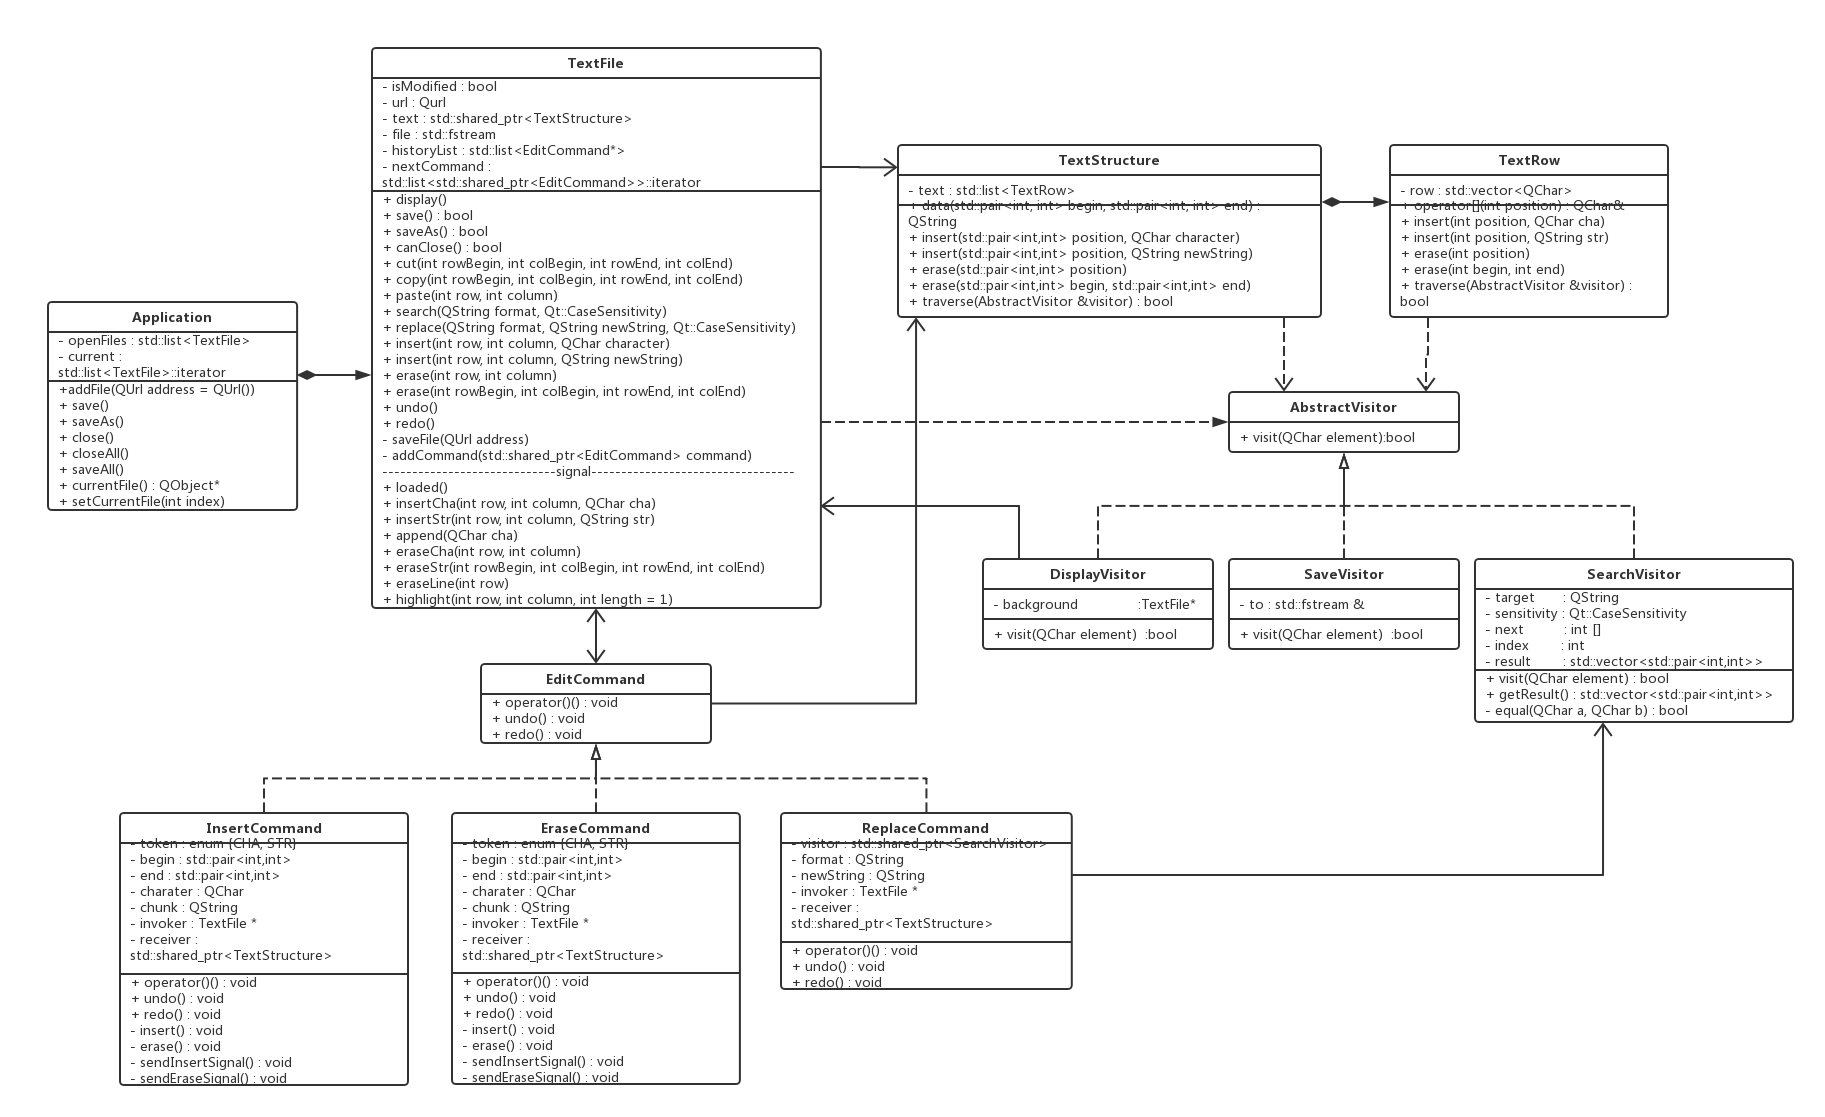
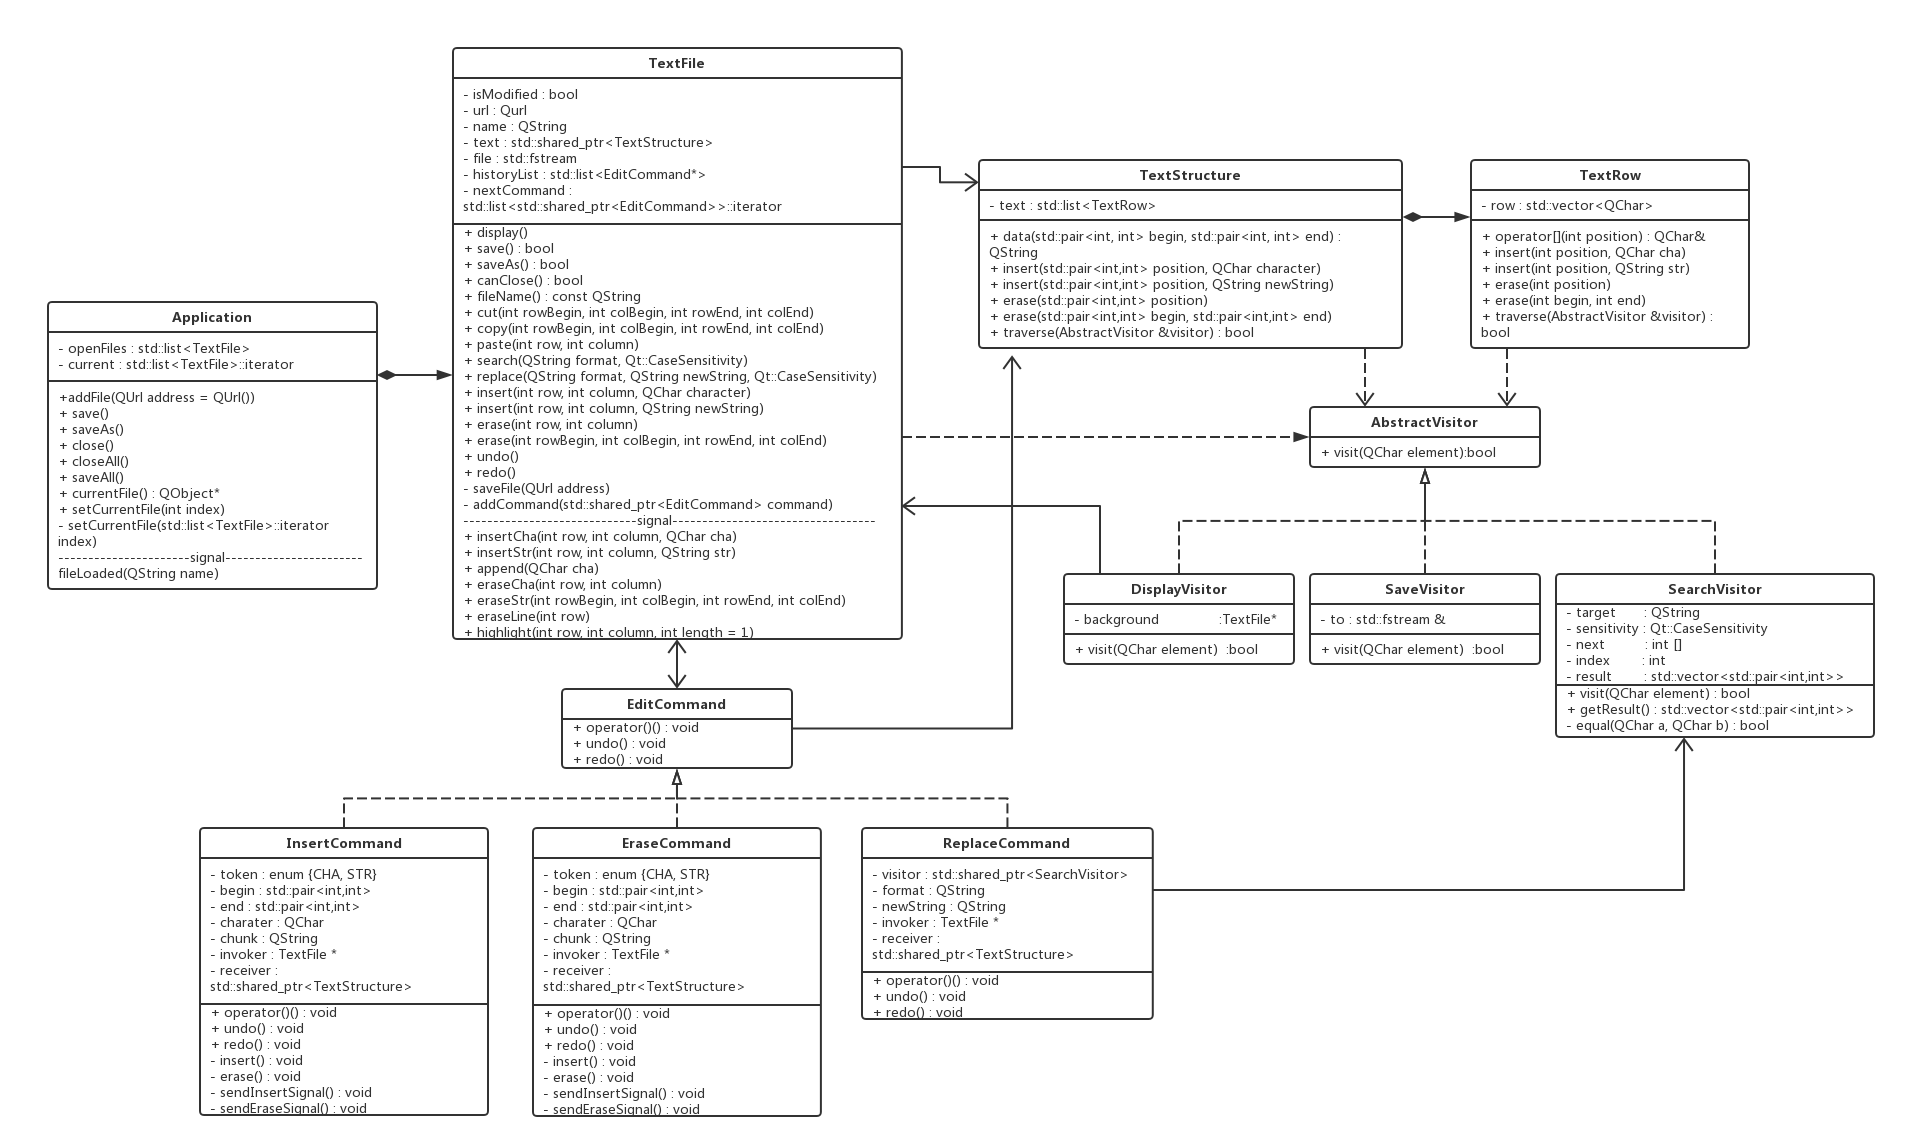
add Q_INVOKABLE getNext() and signal: highlightNext()

diff --git a/textfile.cpp b/textfile.cpp
@@ -130,24 +130,29 @@ void TextFile::addCommand(std::shared_ptr<EditCommand> command)
 
 void TextFile::search(QString format, Qt::CaseSensitivity cs)
 {
-    SearchVisitor searchVisitor(format,cs);
-    text->traverse(searchVisitor);
-    std::vector<std::pair<int,int>> result = searchVisitor.getResult();
+    searchVisitor = std::make_shared<SearchVisitor>(format,cs);
+    text->traverse(*searchVisitor);
+    const std::vector<std::pair<int,int>> result = searchVisitor->getResult();
     for(auto e: result) {
         emit highlight(e.first, e.second, format.size());
     }
+    next = result.cbegin();
+}
+
+void TextFile::showNext()
+{
+    if(next == searchVisitor->getResult().cend())
+        next = searchVisitor->getResult().cbegin();
+    emit highlightNext(next->first, next->second, searchVisitor->getFormat().size());
+    ++next;
 }
 
 void TextFile::replace(QString format, QString newString, Qt::CaseSensitivity cs)
 {
-    std::shared_ptr<SearchVisitor> searchVisitor(new SearchVisitor(format,cs));
-    text->traverse(*searchVisitor);
-    std::vector<std::pair<int,int>> result = searchVisitor->getResult();
-    for(auto e: result) {
-        highlight(e.first, e.second, format.size());
-    }
+    search(format, cs);
+    std::shared_ptr<SearchVisitor> searchInfo(new SearchVisitor(*searchVisitor));//synthesized copy constructor will work
     std::shared_ptr<ReplaceCommand> replaceCommand(
-                new ReplaceCommand(searchVisitor, newString, text, this));
+                new ReplaceCommand(searchInfo, newString, text, this));
     (*replaceCommand)();
    addCommand(replaceCommand);
 }

diff --git a/textfile.h b/textfile.h
@@ -6,10 +6,12 @@
 #include <QObject>
 #include <fstream>
 #include <memory>
-#include "Command/editcommand.h"
+#include <utility>
 #include <QDebug>
 
 class TextStructure;
+class EditCommand;
+class SearchVisitor;
 
 class TextFile: public QObject
 {
@@ -37,6 +39,7 @@ public:
 
     //emit highlight() signal in the two functions
     Q_INVOKABLE void search(QString format, Qt::CaseSensitivity = Qt::CaseSensitive);//use SearchVisitor inside
+    Q_INVOKABLE void showNext();
     //use a SearchVisitor to traverse 'text' and pass the visitor's reference to ReplaceCommand
     //the erase & insert signal are emitted inside EditCommand, while highlight() signal is emited ouside the visitor
     //because the former has a influence on undo(), the latter is just for UI
@@ -74,6 +77,7 @@ signals:
 
     void highlight(int row, int column, int length = 1);//for search result, maybe in yellow?
     //highlighting selected string (maybe in blue?) should be done just in QML, i.e. UI level.
+    void highlightNext(int row, int column, int length = 1);
 
 private:
     bool saveFile(QUrl path);
@@ -85,6 +89,8 @@ private:
     QString name;
     std::shared_ptr<TextStructure> text;
     std::fstream file;
+    std::shared_ptr<SearchVisitor> searchVisitor;
+    std::vector<std::pair<int,int>>::const_iterator next;
     std::list<std::shared_ptr<EditCommand>> historyList;
     std::list<std::shared_ptr<EditCommand>>::iterator nextCommand;
 };

diff --git a/docs/各模块说明/textfile.md b/docs/各模块说明/textfile.md
@@ -8,12 +8,13 @@
 ## Properties
 | 属性 | 类型 | 标识符 |
 |-|-|-|
-private|bool | isModified;
-private|QUrl | url;
-private|std::shared_ptr\<TextStructure> | text;
-private|std::fstream | file;
-private|std::list\<EditCommand*> | historyList;
-private|std::list\<std::shared_ptr\<EditCommand>>::iterator | nextCommand;
+private | bool | isModified;
+private | QUrl | url;
+private | QString | name
+private | std::shared_ptr\<TextStructure> | text;
+private | std::fstream | file;
+private | std::list\<EditCommand*> | historyList;
+private | std::list\<std::shared_ptr\<EditCommand>>::iterator | nextCommand;
 
 ## Public Functions
 | 类型 |声明|
@@ -25,6 +26,7 @@ void | display()
 bool | save()
 bool | saveAs()
 bool | canClose()
+const QString | fileName() const;
 Q_INVOKABLE void | cut(int rowBegin, int colBegin, int rowEnd, int colEnd)
 Q_INVOKABLE void | copy(int rowBegin, int colBegin, int rowEnd, int colEnd)
 Q_INVOKABLE void | paste(int row, int column)
@@ -44,7 +46,6 @@ bool | saveFile(QUrl path)
 void | addCommand(std::shared_ptr<EditCommand> command)
 
 ## Signals
-* loaded()
 * insertCha(int row, int column, QChar cha)
 * insertStr(int row, int column, QString str)
 * append(QChar cha)
@@ -53,7 +54,19 @@ void | addCommand(std::shared_ptr<EditCommand> command)
 * eraseLine(int row)
 * highlight(int row, int column, int length = 1)
 
+## Detailed Description
+TextFile是衔接QML与C++的重要接口类之一(另一个是Application)，允许底层数据结构、硬盘中的文本文件、展示到UI界面上的编辑界面相互关联起来，扮演着Mediator的角色。  
+所有的编辑操作都是在单个文件（TextFile）上进行的，操作在不同文件（TextFile）上的操作是不相干的
+#### 初始化一个TextFile  
+默认构造函数初始化一个没有与硬盘中的文本文件相关联的TextFile对象，对应“新建文件”的操作。接受一个QUrl的构造函数将硬盘中该QUrl对应的地址上的文本文件读入内存中，并以TextStructure类来维护该结构，这个构造函数对应“打开文件”的操作。  
+#### C++与QML数据交互
+TextFile提供一系列Q_INVOKABLE函数，通过Qt元对象系统的辅助（TextFile必须继承自QObject），QML中的代码可以调用这些函数来实现QML到C++的数据传递。当用户在UI交互界面进行编辑操作时，产生的事件就是通过Q_INVOKABLE函数传递给C++处理的（在此之前QML会对事件进行一些预处理）。  
+在C++处理事件的过程中，会有一系列信号通过TextFile传递出来（TextFile声明了这些信号，由Qt元对象系统提供具体实现）。在QML中会通过Connections对象监听从TextFile传来的信号，并对收到的信号进行处理，这里的“处理”可以理解为把C++代码的执行结果在UI界面上展示出来。
+#### 撤销/重做
+
+
 
 ## Property Documentation
 
 ## Member Function Documentation
+
